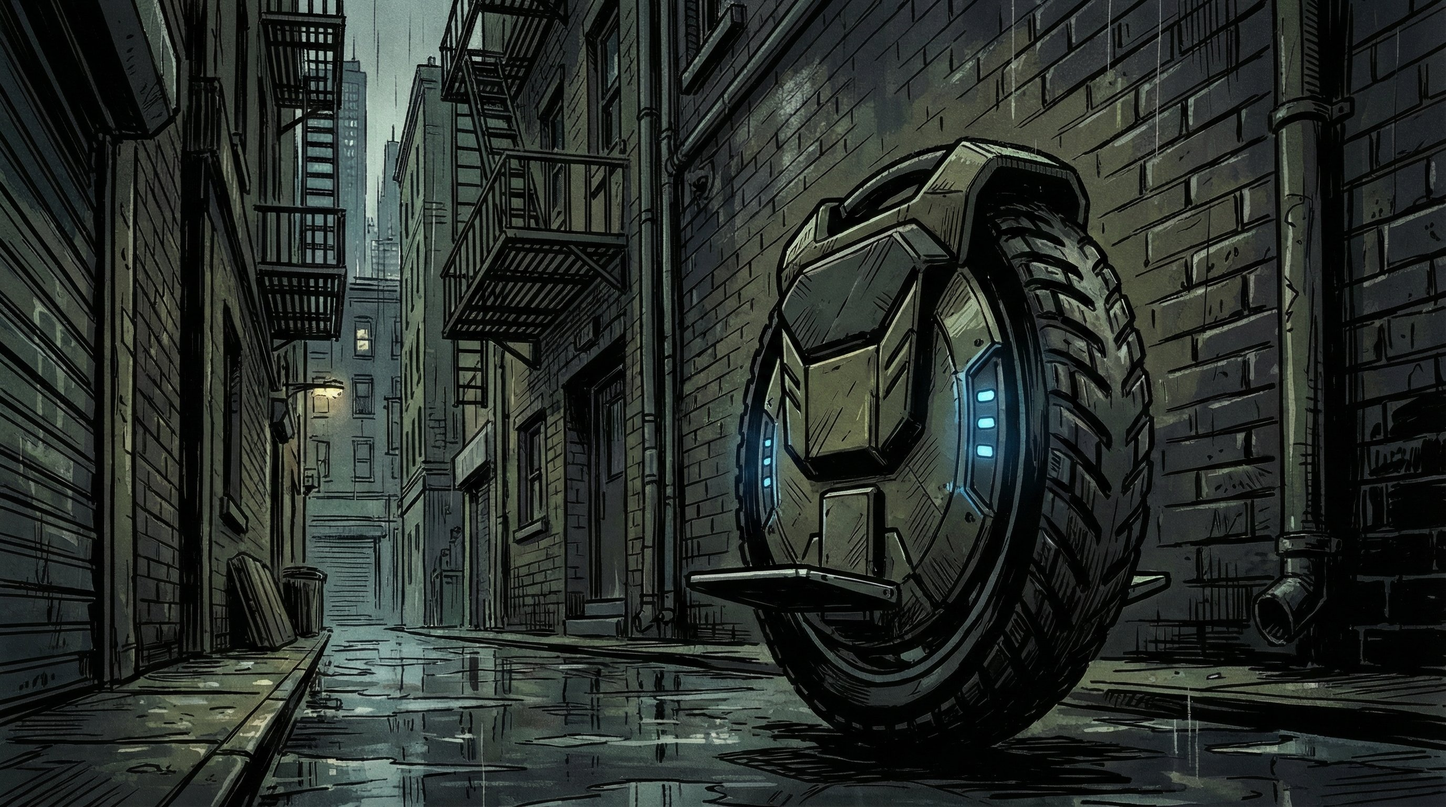
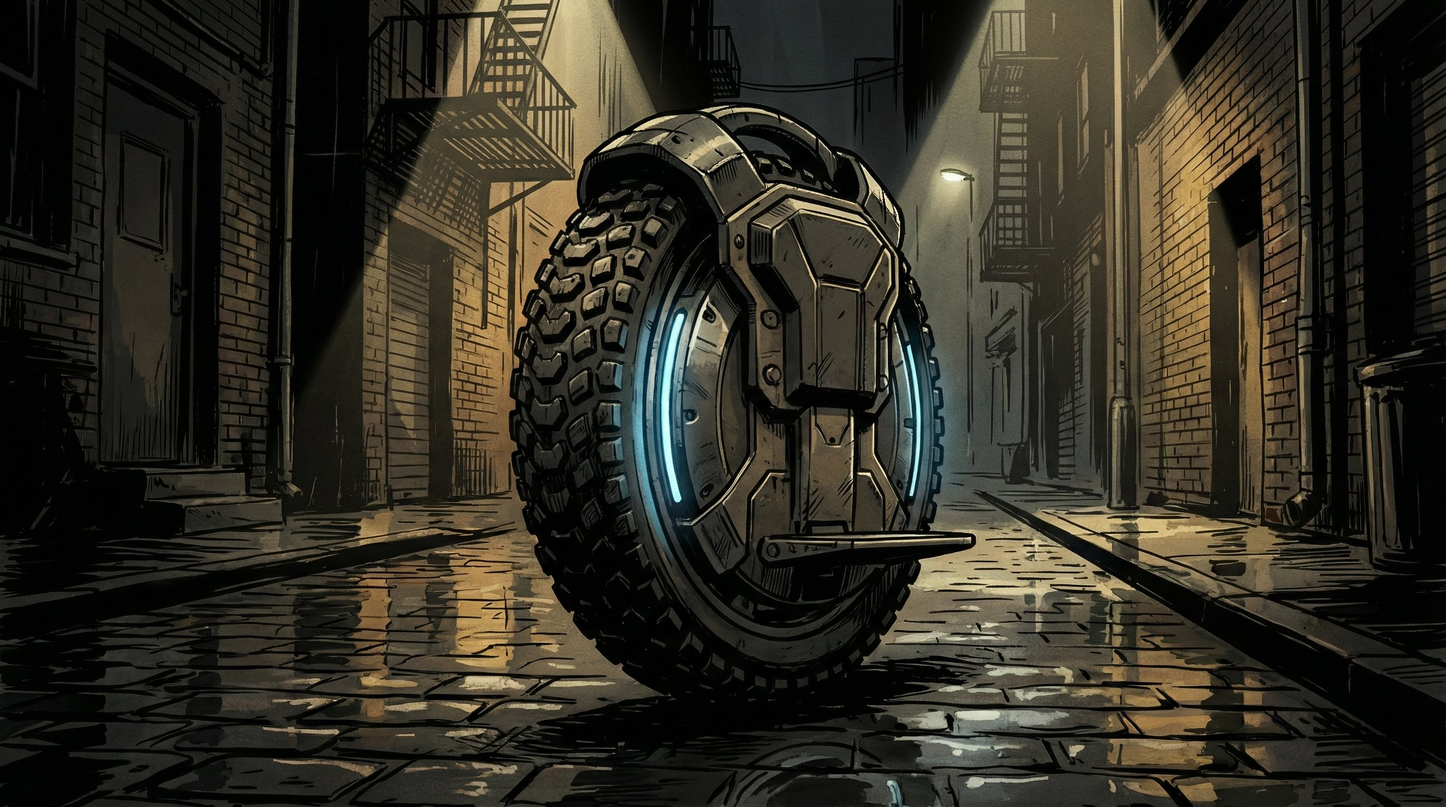
Fix hero generator: noir comic book style, not photorealism
Changed W33S3_STYLE from "Professional photography feel" to
"Noir comic book illustration style. Heavy black ink lines,
high contrast shading, cel-shaded shadows."

Regenerated KingSong hero with correct style.

diff --git a/scripts/generate_hero.py b/scripts/generate_hero.py
@@ -35,8 +35,8 @@ IMAGE_DIR = PROJECT_DIR / "static" / "images"
 
 # w33s3 style - consistent dark aesthetic
 W33S3_STYLE = {
-    "name": "w33s3 Dark",
-    "description": "Dark, moody atmosphere with high contrast lighting. Cinematic composition with neon accent colors against deep blacks. Professional photography feel, dramatic shadows, rich color depth. Modern minimalist aesthetic, no text or watermarks."
+    "name": "Noir Comic Book",
+    "description": "Noir comic book illustration style. Heavy black ink lines, high contrast shading, cel-shaded shadows. Hand-drawn graphic novel aesthetic with bold outlines. Muted palette with selective color pops. Stylized, not photorealistic. No text, watermarks, or speech bubbles."
 }
 
 # Gemini API config - Use Gemini 3 Pro for 16:9 aspect ratio support
